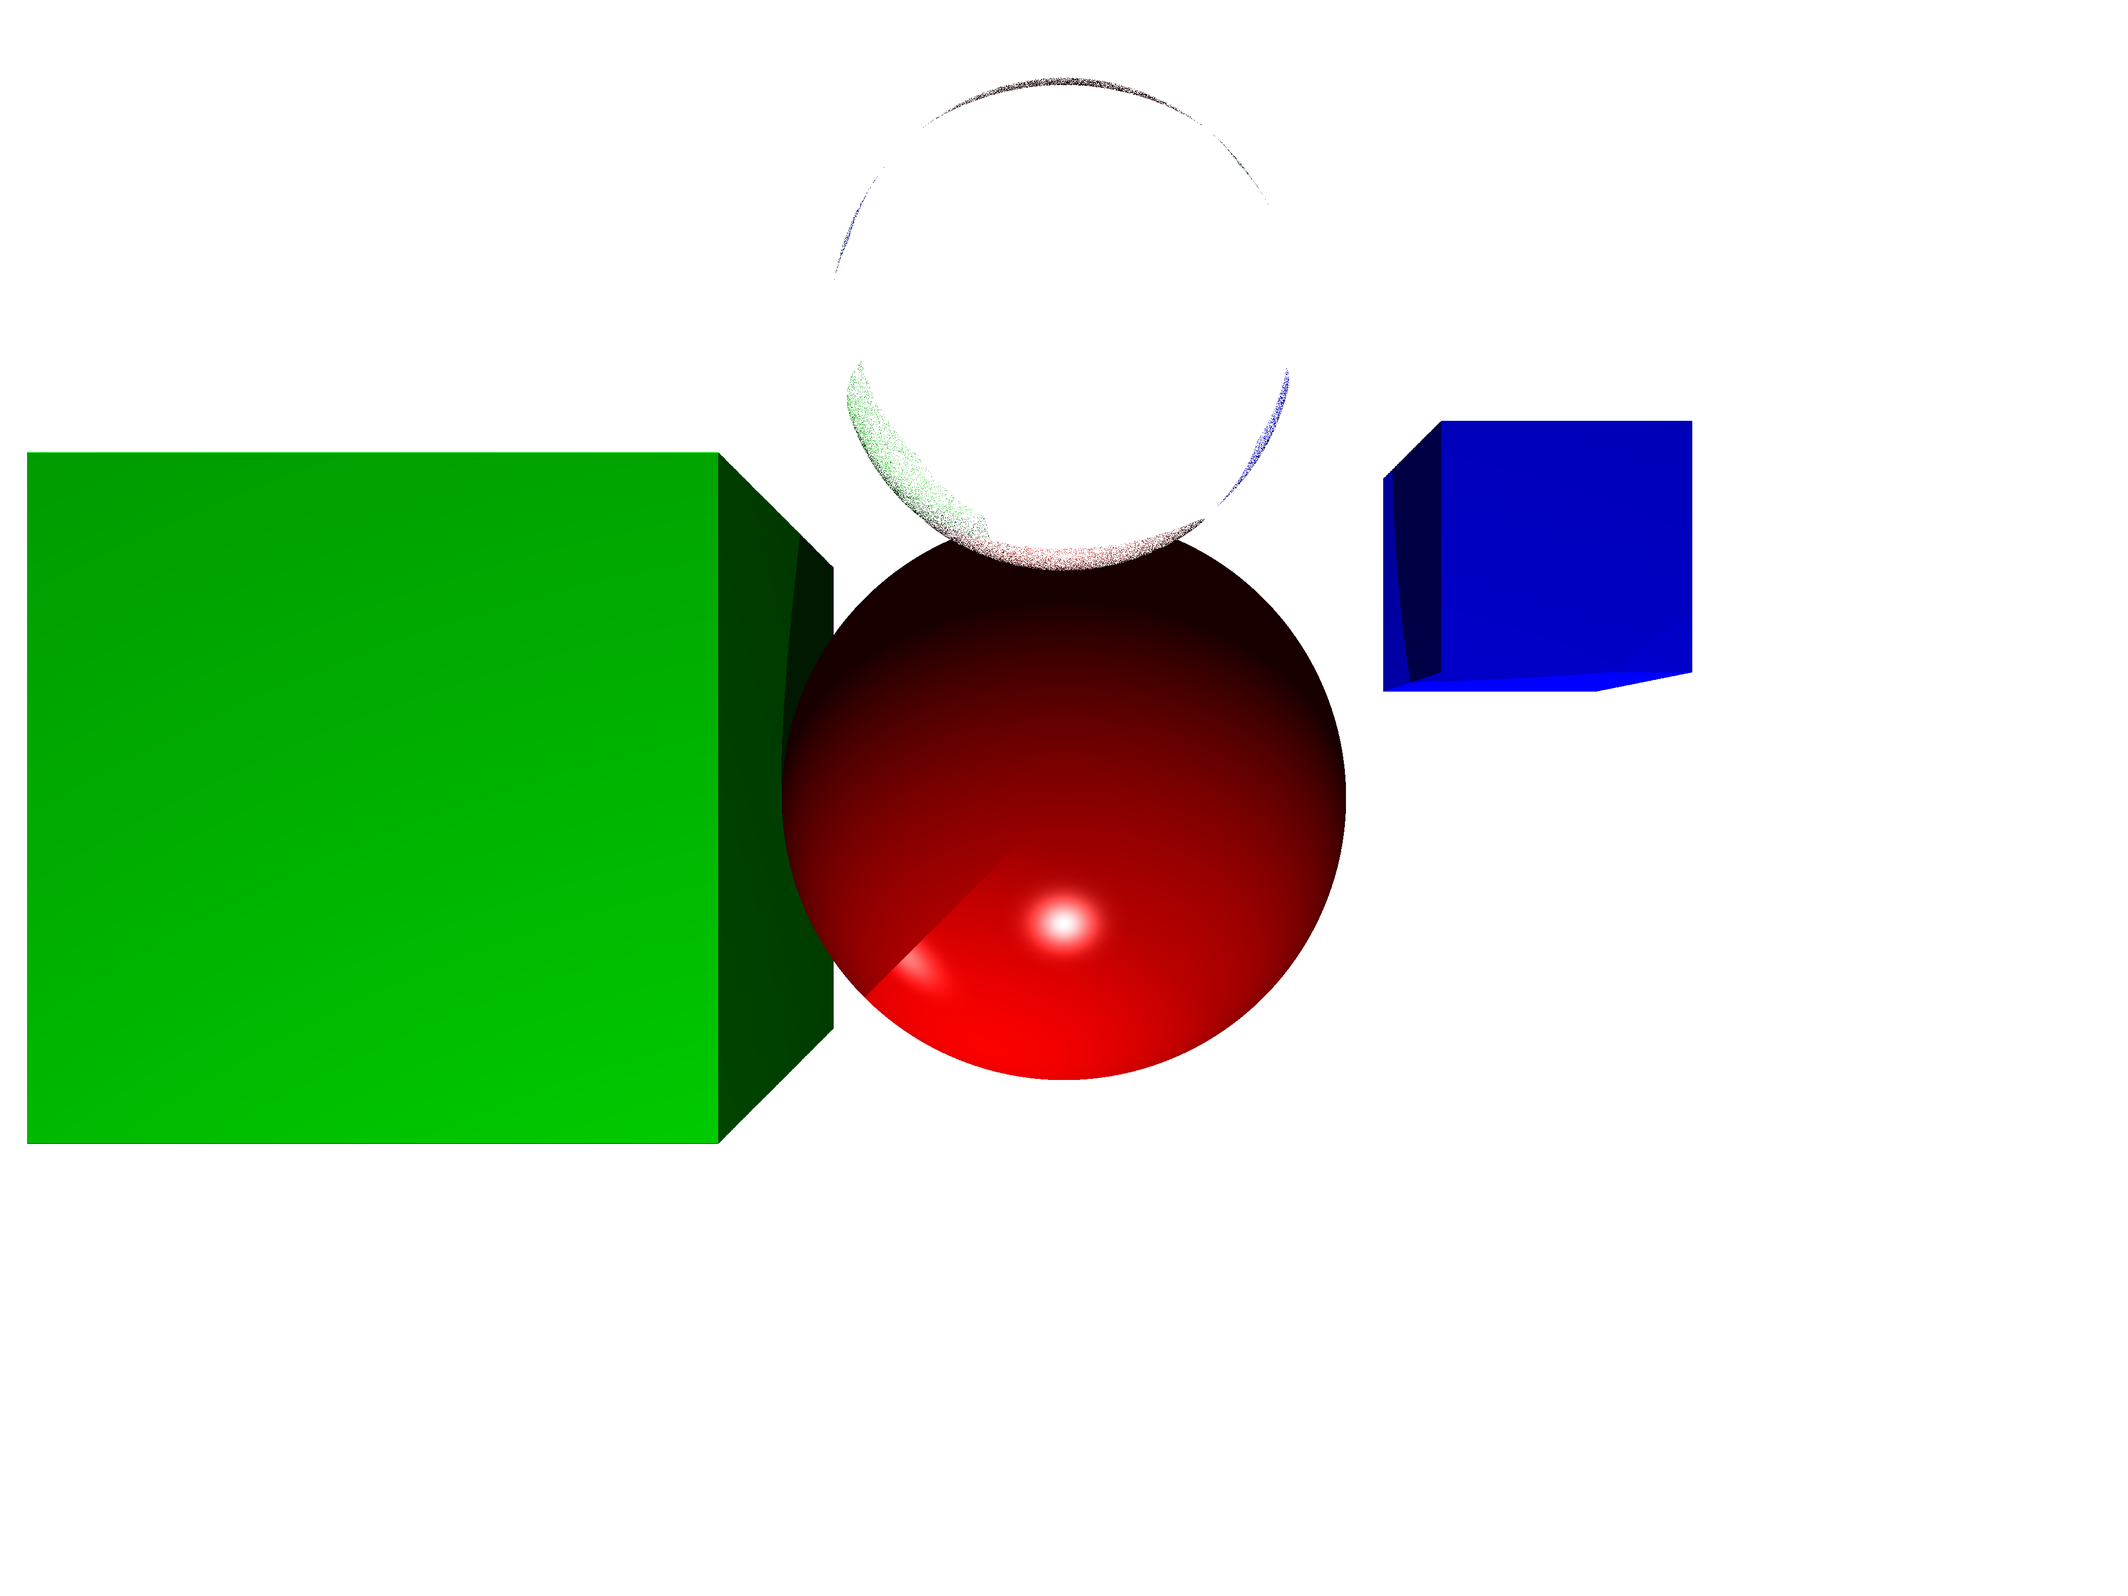
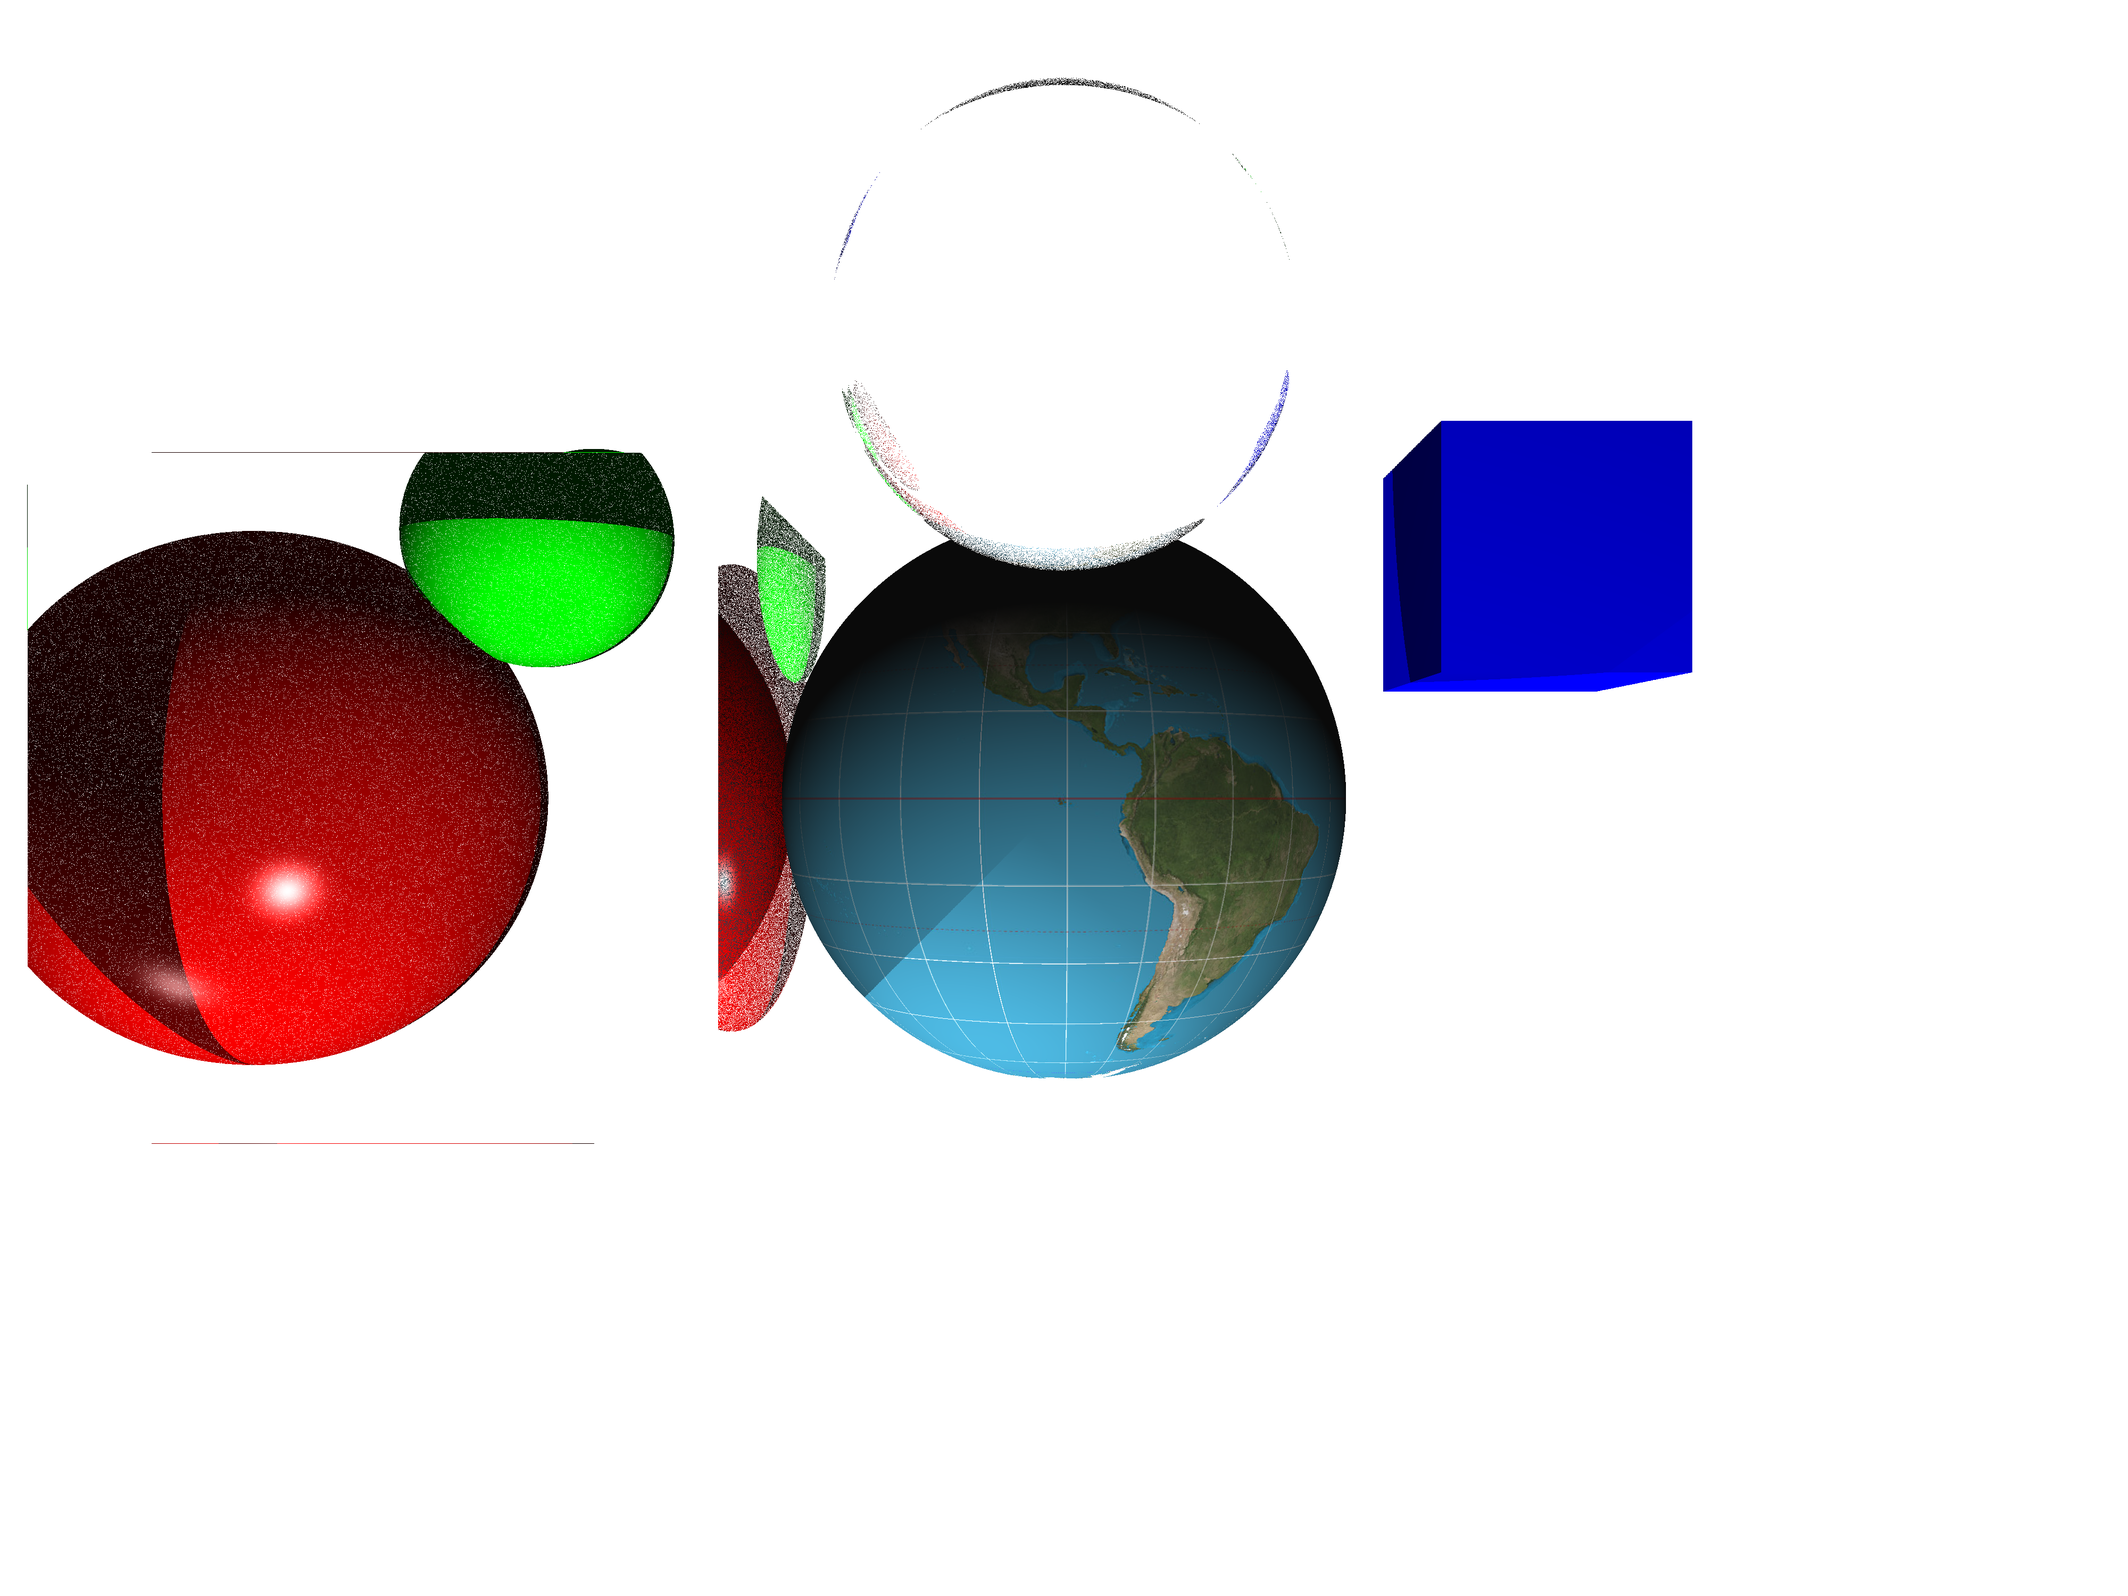
Metal material added, texture support added for sphere

Changed region(s): [[0.0, 0.279, 0.6562, 0.744], [0.4375, 0.31, 0.4688, 0.341], [0.4062, 0.279, 0.4375, 0.31]]

diff --git a/src/main/java/org/example/Main.java b/src/main/java/org/example/Main.java
@@ -1,10 +1,7 @@
 package org.example;
 
 import me.tongfei.progressbar.ProgressBar;
-import org.example.material.DiffuseMaterial;
-import org.example.material.GlassMaterial;
-import org.example.material.Material;
-import org.example.material.PhongMaterial;
+import org.example.material.*;
 import org.example.math.Ray;
 import org.example.math.Vector3;
 import org.example.objects.Cube;
@@ -12,6 +9,7 @@ import org.example.objects.Sphere;
 import org.example.scene.Camera;
 import org.example.scene.Light;
 import org.example.scene.Scene;
+import org.example.textures.*;
 
 import javax.imageio.ImageIO;
 import java.awt.*;
@@ -20,9 +18,9 @@ import java.io.File;
 import java.io.IOException;
 
 public class Main {
-    public static final int SCALER = 5;
-    public static final int WIDTH = 800 * SCALER;
-    public static final int HEIGHT = 600 * SCALER;
+    public static final int SCALE = 5;
+    public static final int WIDTH = 800 * SCALE;
+    public static final int HEIGHT = 600 * SCALE;
     public static final int MAX_DEPTH = 5;
 
     public static void main(String[] args) throws IOException {
@@ -33,16 +31,31 @@ public class Main {
         scene.setBackground_color(Color.WHITE); // белый фон
 
         // Материалы
+        // Texture
+        System.out.println("Working Directory = " + System.getProperty("user.dir"));
+
+        Texture earthTexture = new ImageTexture("src/main/resources/earth.jpg");
+        Material earth = new TextureMaterial(earthTexture);
+
+        // Diffuse
         Material redPhong = new PhongMaterial(new Color(255, 0, 0), 0.1, 0.7, 0.6, 64);
         Material greenDiffuse = new DiffuseMaterial(new Color(0, 255, 0));
         Material blueDiffuse = new DiffuseMaterial(new Color(0, 0, 255));
+
+        // Glass
         Material glass = new GlassMaterial(1.5);
 
+        // Metal
+        Material metal = new MetalMaterial(new Color(192, 192, 192), 0.1);
+
         // Объекты
-        scene.addObject(new Sphere(new Vector3(0, 0, -5), 1, redPhong));           // красная глянцевая сфера
-        scene.addObject(new Cube(new Vector3(-2, 0, -5), 2, greenDiffuse));         // зелёный куб
-        scene.addObject(new Cube(new Vector3(2, -1, -6), 1, blueDiffuse));          // синий куб
-        scene.addObject(new Sphere(new Vector3(0, -1, -3), 0.5, glass));            // стеклянная сфера
+        scene.addObject(new Sphere(new Vector3(0, 0, -5), 1, earth));
+        scene.addObject(new Sphere(new Vector3(-2, -1, -6), 0.5, greenDiffuse));
+        scene.addObject(new Sphere(new Vector3(0, -1, -3), 0.5, glass));
+        scene.addObject(new Sphere(new Vector3(-3, 0, -6), 1, redPhong));
+
+        scene.addObject(new Cube(new Vector3(-2, 0, -5), 2, glass));
+        scene.addObject(new Cube(new Vector3(2, -1, -6), 1, blueDiffuse));
 
         // Источники света
         scene.addLight(new Light(new Vector3(0, 5, 0), 1.0));

diff --git a/src/main/java/org/example/material/MetalMaterial.java b/src/main/java/org/example/material/MetalMaterial.java
@@ -1,0 +1,62 @@
+package org.example.material;
+
+import org.example.math.Ray;
+import org.example.math.RefractionUtil;
+import org.example.math.Vector3;
+import org.example.objects.HitResult;
+
+import java.awt.*;
+
+public class MetalMaterial implements Material {
+    private final Color baseColor;
+    private final double fuzz;
+
+    public MetalMaterial(Color baseColor, double fuzz) {
+        this.baseColor = baseColor;
+        this.fuzz = Math.min(fuzz, 1.0); // ограничим от 0 до 1
+    }
+
+    @Override
+    public boolean scatter(Ray rayIn, HitResult hit, ScatterResult result) {
+        Vector3 reflected = RefractionUtil.reflect(rayIn.getDirection().normalize(), hit.normal);
+        Vector3 scatteredDir = reflected.add(Vector3.randomInUnitSphere().multiply(fuzz));
+
+        result.scattered = new Ray(hit.point.add(hit.normal.multiply(0.001)), scatteredDir);
+        result.attenuation = baseColor;
+
+        return scatteredDir.dot(hit.normal) > 0;
+    }
+
+    @Override
+    public Color getColor() {
+        return baseColor;
+    }
+
+    @Override
+    public Color getAmbient(HitResult hit) {
+        return scaleColor(baseColor, 0.1);
+    }
+
+    @Override
+    public Color getDiffuse(HitResult hit) {
+        return scaleColor(baseColor, 0.3);
+    }
+
+    @Override
+    public Color getSpecular(HitResult hit) {
+        return new Color(255, 255, 255);
+    }
+
+    @Override
+    public double getShininess() {
+        return 64.0;
+    }
+
+    private Color scaleColor(Color color, double factor) {
+        return new Color(
+                (int) Math.min(color.getRed() * factor, 255),
+                (int) Math.min(color.getGreen() * factor, 255),
+                (int) Math.min(color.getBlue() * factor, 255)
+        );
+    }
+}

diff --git a/src/main/java/org/example/scene/Scene.java b/src/main/java/org/example/scene/Scene.java
@@ -71,7 +71,7 @@ public class Scene {
         Material mat = closestHit.material;
         Vector3 viewDir = ray.getDirection().negate();
 
-        Vector3 ambient = ColorUtil.toVec(mat.getAmbient());
+        Vector3 ambient = ColorUtil.toVec(mat.getAmbient(closestHit));
         Vector3 diffuse = new Vector3(0, 0, 0);
         Vector3 specular = new Vector3(0, 0, 0);
 
@@ -92,14 +92,14 @@ public class Scene {
             if (!inShadow) {
                 // Diffuse
                 double diff = Math.max(0, closestHit.normal.dot(lightDir));
-                Vector3 diffuseComponent = ColorUtil.multiply(ColorUtil.toVec(mat.getDiffuse()), diff * light.getIntensity());
+                Vector3 diffuseComponent = ColorUtil.multiply(ColorUtil.toVec(mat.getDiffuse(closestHit)), diff * light.getIntensity());
                 diffuse = ColorUtil.add(diffuse, diffuseComponent);
 
                 // Specular
                 Vector3 reflectDir = reflect(lightDir.negate(), closestHit.normal);
                 double specAngle = Math.max(0, reflectDir.dot(viewDir));
                 double spec = Math.pow(specAngle, mat.getShininess());
-                Vector3 specularComponent = ColorUtil.multiply(ColorUtil.toVec(mat.getSpecular()), spec * light.getIntensity());
+                Vector3 specularComponent = ColorUtil.multiply(ColorUtil.toVec(mat.getSpecular(closestHit)), spec * light.getIntensity());
                 specular = ColorUtil.add(specular, specularComponent);
             }
         }

diff --git a/src/main/java/org/example/objects/HitResult.java b/src/main/java/org/example/objects/HitResult.java
@@ -10,6 +10,7 @@ public class HitResult {
     public final Vector3 normal;
     public final Material material;
     public final boolean frontFace;
+    public double v, u;
 
     public HitResult(double t, Vector3 point, Vector3 outwardNormal, Material material, Ray ray) {
         this.t = t;
@@ -18,5 +19,24 @@ public class HitResult {
         this.normal = frontFace ? outwardNormal : outwardNormal.negate();
         this.material = material;
     }
+
+    public HitResult(double t, Vector3 point, Vector3 outwardNormal, Material material, Ray ray, double u, double v) {
+        this.t = t;
+        this.point = point;
+        this.frontFace = ray.getDirection().dot(outwardNormal) < 0;
+        this.normal = frontFace ? outwardNormal : outwardNormal.negate();
+        this.material = material;
+        this.u = u;
+        this.v = v;
+    }
+
+    public static double[] getSphereUV(Vector3 p) {
+        double phi = Math.atan2(p.z, p.x);
+        double theta = Math.acos(p.y);
+        double u = 1 - (phi + Math.PI) / (2 * Math.PI);
+        double v = (theta) / Math.PI;
+        return new double[]{u, v};
+    }
+
 }
 

diff --git a/src/main/java/org/example/objects/Sphere.java b/src/main/java/org/example/objects/Sphere.java
@@ -4,6 +4,8 @@ import org.example.material.Material;
 import org.example.math.Ray;
 import org.example.math.Vector3;
 
+import static org.example.objects.HitResult.getSphereUV;
+
 public class Sphere implements Hittable {
     private final Vector3 center;
     private final double radius;
@@ -36,10 +38,16 @@ public class Sphere implements Hittable {
             if (t > 0.001) {
                 Vector3 point = ray.getOrigin().add(ray.getDirection().multiply(t));
                 Vector3 outwardNormal = point.subtract(center).normalize();
-                return new HitResult(t, point, outwardNormal, material, ray);
+
+                // 👉 Получаем координаты текстуры
+                Vector3 localPoint = point.subtract(center).normalize(); // точка на сфере в нормализованных координатах
+                double[] uv = getSphereUV(localPoint);
+
+                return new HitResult(t, point, outwardNormal, material, ray, uv[0], uv[1]);
             }
         }
 
         return null;
     }
+
 }

diff --git a/src/main/java/org/example/material/TextureMaterial.java b/src/main/java/org/example/material/TextureMaterial.java
@@ -1,0 +1,46 @@
+package org.example.material;
+
+import org.example.math.Ray;
+import org.example.objects.HitResult;
+import org.example.textures.Texture;
+
+import java.awt.*;
+
+public class TextureMaterial implements Material {
+    private final Texture texture;
+
+    public TextureMaterial(Texture texture) {
+        this.texture = texture;
+    }
+
+    @Override
+    public boolean scatter(Ray rayIn, HitResult hit, ScatterResult result) {
+        return false;
+    }
+
+    @Override
+    public Color getColor() {
+        return Color.WHITE;
+    }
+
+    @Override
+    public Color getAmbient(HitResult hit) {
+        return new Color(10, 10, 10);
+    }
+
+    @Override
+    public Color getDiffuse(HitResult hit) {
+        return texture.getColor(hit.u, hit.v, hit.point); // нужно добавить u,v в HitResult
+    }
+
+    @Override
+    public Color getSpecular(HitResult hit) {
+        return new Color(0, 0, 0);
+    }
+
+    @Override
+    public double getShininess() {
+        return 1.0;
+    }
+}
+

diff --git a/src/main/java/org/example/textures/ImageTexture.java b/src/main/java/org/example/textures/ImageTexture.java
@@ -1,0 +1,24 @@
+package org.example.textures;
+
+import org.example.math.Vector3;
+
+import javax.imageio.ImageIO;
+import java.awt.*;
+import java.awt.image.BufferedImage;
+import java.io.File;
+import java.io.IOException;
+
+public class ImageTexture implements Texture {
+    private final BufferedImage image;
+
+    public ImageTexture(String path) throws IOException {
+        this.image = ImageIO.read(new File(path));
+    }
+
+    @Override
+    public Color getColor(double u, double v, Vector3 point) {
+        int x = (int)(u * (image.getWidth() - 1));
+        int y = (int)((1 - v) * (image.getHeight() - 1)); // инвертируем v
+        return new Color(image.getRGB(x, y));
+    }
+}

diff --git a/src/main/java/org/example/material/GlassMaterial.java b/src/main/java/org/example/material/GlassMaterial.java
@@ -43,17 +43,17 @@ public class GlassMaterial implements Material {
     }
 
     @Override
-    public Color getAmbient() {
+    public Color getAmbient(HitResult hit) {
         return new Color(20, 20, 20); // слабый свет вокруг
     }
 
     @Override
-    public Color getDiffuse() {
+    public Color getDiffuse(HitResult hit) {
         return new Color(0, 0, 0); // стекло почти не имеет диффузной составляющей
     }
 
     @Override
-    public Color getSpecular() {
+    public Color getSpecular(HitResult hit) {
         return new Color(255, 255, 255); // белые блики
     }
 

diff --git a/src/main/java/org/example/material/DiffuseMaterial.java b/src/main/java/org/example/material/DiffuseMaterial.java
@@ -25,17 +25,17 @@ public class DiffuseMaterial implements Material {
     }
 
     @Override
-    public Color getAmbient() {
+    public Color getAmbient(HitResult hit) {
         return scaleColor(baseColor, 0.1); // слабое общее освещение
     }
 
     @Override
-    public Color getDiffuse() {
+    public Color getDiffuse(HitResult hit) {
         return baseColor;
     }
 
     @Override
-    public Color getSpecular() {
+    public Color getSpecular(HitResult hit) {
         return new Color(0, 0, 0); // нет блика
     }
 

diff --git a/src/main/java/org/example/material/PhongMaterial.java b/src/main/java/org/example/material/PhongMaterial.java
@@ -30,17 +30,17 @@ public class PhongMaterial implements Material {
     }
 
     @Override
-    public Color getAmbient() {
+    public Color getAmbient(HitResult hit) {
         return scaleColor(color, ka);
     }
 
     @Override
-    public Color getDiffuse() {
+    public Color getDiffuse(HitResult hit) {
         return scaleColor(color, kd);
     }
 
     @Override
-    public Color getSpecular() {
+    public Color getSpecular(HitResult hit) {
         return new Color(255, 255, 255); // белый блик
     }
 

diff --git a/src/main/java/org/example/material/Material.java b/src/main/java/org/example/material/Material.java
@@ -8,9 +8,9 @@ import java.awt.*;
 public interface Material {
     boolean scatter(Ray rayIn, HitResult hit, ScatterResult result);
     Color getColor();  // базовый цвет
-    Color getAmbient();
-    Color getDiffuse();
-    Color getSpecular();
+    Color getAmbient(HitResult hit);
+    Color getSpecular(HitResult hit);
+    Color getDiffuse(HitResult hit);
     double getShininess();
 }
 

diff --git a/src/main/java/org/example/textures/Texture.java b/src/main/java/org/example/textures/Texture.java
@@ -1,0 +1,10 @@
+package org.example.textures;
+
+import org.example.math.Vector3;
+
+import java.awt.*;
+
+public interface Texture {
+    Color getColor(double u, double v, Vector3 point);
+}
+
